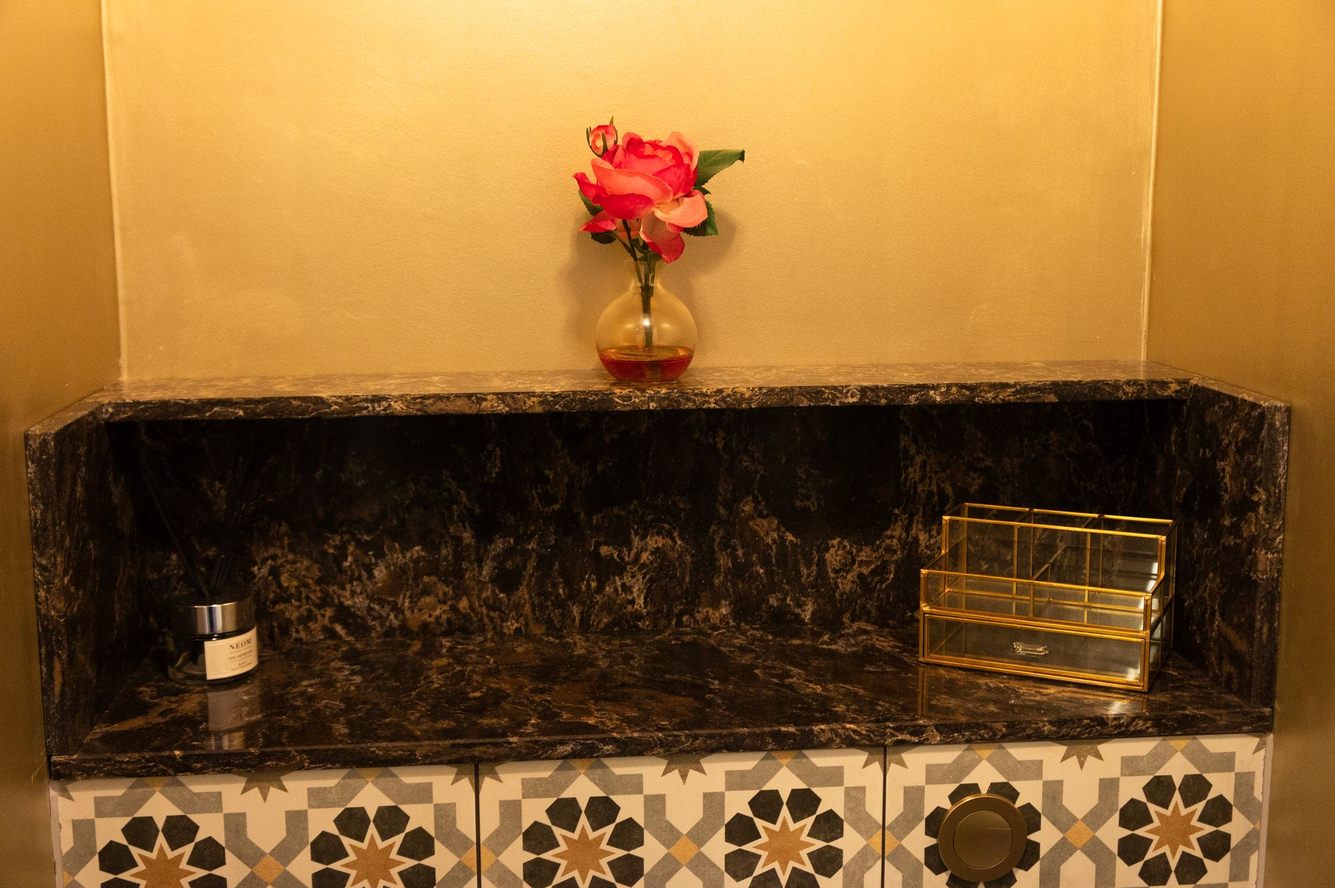
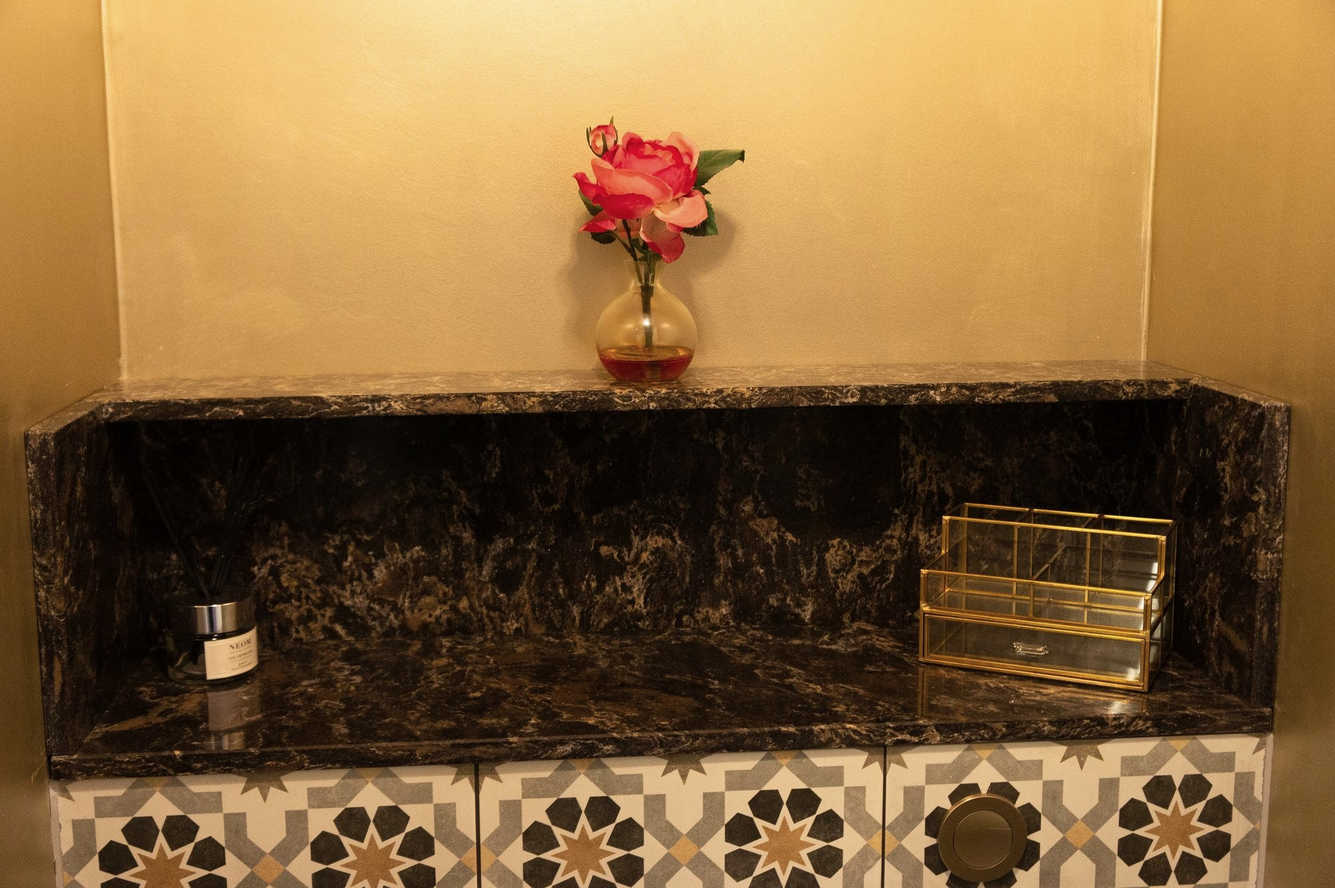
Magazine Mews: no house number or postcode, softer photo colours
- Address shows as "Magazine Mews, Shoeburyness" everywhere: page title,
  heading, link preview, Google listing data, header badge (now "M").
- New link-preview picture without the number or postcode.
- Every photo's colour saturation reduced by 20% to match the house in person.

Claude-Session: https://claude.ai/code/session_01B8GAB7MBQBbgSW8Co3RPre

Changed region(s): [[0.434, 0.1232, 0.527, 0.2772], [0.744, 0.6469, 0.868, 0.7701], [0.806, 0.5853, 0.868, 0.6161]]

diff --git a/magazine-mews/index.html b/magazine-mews/index.html
@@ -4,14 +4,14 @@
 <head>
 <meta charset="utf-8">
 <meta name="viewport" content="width=device-width, initial-scale=1">
-<title>1 Magazine Mews, Shoebury Garrison, Shoeburyness SS3 9QB — For sale</title>
-<meta name="description" content="1 Magazine Mews is for sale privately. A home in the historic Shoebury Garrison conservation area in Shoeburyness, Essex, just yards from East Beach. See photos and details, or arrange a viewing.">
+<title>Magazine Mews, Shoeburyness — For sale</title>
+<meta name="description" content="Magazine Mews is for sale privately. A home in the historic Shoebury Garrison conservation area in Shoeburyness, Essex, just yards from East Beach. See photos and details, or arrange a viewing.">
 <meta name="theme-color" content="#4A1F3D">
 
 <!-- Social sharing (WhatsApp, Facebook, iMessage…). Facebook needs full URLs,
      so these come from site.url in content.js. -->
 <meta property="og:type" content="website">
-<meta property="og:title" content="1 Magazine Mews, Shoebury Garrison — for sale">
+<meta property="og:title" content="Magazine Mews — for sale">
 <meta property="og:description" content="A home in the historic Shoebury Garrison conservation area in Shoeburyness, Essex, just yards from East Beach. For sale privately. Viewings by appointment.">
 <meta property="og:image" content="https://1magazinemews.vercel.app/og-image.jpg">
 <meta property="og:image:width" content="1200">
@@ -30,22 +30,16 @@
   "@context": "https://schema.org",
   "@type": "RealEstateListing",
   "url": "https://1magazinemews.vercel.app/",
-  "name": "1 Magazine Mews, Shoebury Garrison, Shoeburyness, Essex, SS3 9QB for sale",
+  "name": "Magazine Mews, Shoeburyness for sale",
   "description": "A home in the historic Shoebury Garrison conservation area in Shoeburyness, Essex, just yards from East Beach.",
   "about": {
     "@type": "Accommodation",
-    "name": "1 Magazine Mews",
+    "name": "Magazine Mews",
     "address": {
       "@type": "PostalAddress",
-      "streetAddress": "1 Magazine Mews",
+      "streetAddress": "Magazine Mews",
       "addressLocality": "Shoeburyness",
-      "addressRegion": "Essex",
-      "postalCode": "SS3 9QB",
       "addressCountry": "GB"
-    },
-    "containedInPlace": {
-      "@type": "Place",
-      "name": "Shoebury Garrison, Shoeburyness"
     }
   }
 }
@@ -92,9 +86,9 @@
 
 <header class="site-header" id="top">
   <div class="wrap header-inner">
-    <a class="brand" href="#top" aria-label="1 Magazine Mews, back to top">
-      <span class="brand-mark" aria-hidden="true">1</span>
-      <span class="brand-text">Magazine Mews<small>Shoebury Garrison</small></span>
+    <a class="brand" href="#top" aria-label="Magazine Mews, back to top">
+      <span class="brand-mark" aria-hidden="true">M</span>
+      <span class="brand-text">Magazine Mews<small>Shoeburyness</small></span>
     </a>
 
     <button class="nav-toggle" aria-expanded="false" aria-controls="site-nav" aria-label="Menu">
@@ -119,8 +113,8 @@
     <div class="wrap hero-inner">
       <div class="hero-copy">
         <p class="eyebrow eyebrow-light" id="hero-eyebrow">For sale privately</p>
-        <h1 id="hero-title">1 Magazine Mews</h1>
-        <p class="hero-address" id="hero-address">Shoebury Garrison · Shoeburyness, Essex · SS3 9QB</p>
+        <h1 id="hero-title">Magazine Mews</h1>
+        <p class="hero-address" id="hero-address">Shoeburyness</p>
         <p class="hero-lede" id="hero-lede"></p>
 
         <div class="hero-price" id="hero-price" hidden>
@@ -154,7 +148,7 @@
               <text class="crest-ring-text" fill="currentColor">
                 <textPath href="#crest-ring" startOffset="0">SHOEBURY GARRISON · EST. 1849 · SHOEBURYNESS · ESSEX ·</textPath>
               </text>
-              <text class="crest-numeral" x="160" y="192" text-anchor="middle" fill="currentColor">1</text>
+              <text class="crest-numeral" x="160" y="192" text-anchor="middle" fill="currentColor">M</text>
               <text class="crest-name" x="160" y="222" text-anchor="middle" fill="currentColor">MAGAZINE MEWS</text>
               <path d="M130 96 h60" stroke="currentColor" stroke-width="1.5"/>
               <path d="M160 89 l4.5 7 -4.5 7 -4.5 -7z" fill="currentColor"/>
@@ -177,7 +171,7 @@
     <div class="wrap home-inner">
       <div class="home-copy">
         <p class="eyebrow">The home</p>
-        <h2>About 1 Magazine Mews</h2>
+        <h2>About Magazine Mews</h2>
         <div class="prose" id="home-description"></div>
       </div>
       <aside class="home-aside" id="home-aside" hidden>
@@ -224,7 +218,7 @@
         <h2>Floorplan</h2>
       </header>
       <figure class="floorplan" id="floorplan-figure" hidden>
-        <img id="floorplan-img" alt="Floorplan of 1 Magazine Mews" loading="lazy">
+        <img id="floorplan-img" alt="Floorplan of Magazine Mews" loading="lazy">
       </figure>
       <p class="floorplan-download" id="floorplan-download" hidden>
         <a class="btn btn-outline" id="floorplan-pdf" href="#" download>Download floorplan (PDF)</a>
@@ -256,10 +250,10 @@
     <div class="wrap">
       <div class="map" id="map">
         <div class="map-placeholder" id="map-placeholder">
-          <p class="map-address">Magazine Mews, Shoeburyness SS3 9QB</p>
+          <p class="map-address">Magazine Mews, Shoeburyness</p>
           <div class="map-actions">
             <button class="btn btn-brass" type="button" id="map-load">Show map</button>
-            <a class="btn btn-outline-light" id="map-link" href="https://www.google.com/maps/search/?api=1&amp;query=1+Magazine+Mews%2C+Shoeburyness%2C+SS3+9QB" target="_blank" rel="noopener">Open in Google Maps</a>
+            <a class="btn btn-outline-light" id="map-link" href="https://www.google.com/maps/search/?api=1&amp;query=Magazine+Mews%2C+Shoeburyness" target="_blank" rel="noopener">Open in Google Maps</a>
           </div>
           <p class="map-note">The map loads from Google when you press the button.</p>
         </div>
@@ -303,8 +297,8 @@
       </div>
 
       <form class="enquire-form" id="enquiry-form" novalidate>
-        <input type="hidden" name="_subject" value="Enquiry: 1 Magazine Mews">
-        <input type="hidden" name="property" value="1 Magazine Mews">
+        <input type="hidden" name="_subject" value="Enquiry: Magazine Mews">
+        <input type="hidden" name="property" value="Magazine Mews">
         <!-- Spam trap: real people never see or fill this -->
         <div class="hp" aria-hidden="true">
           <label for="hp-field">Leave this empty</label>
@@ -366,10 +360,10 @@
   <div class="wrap footer-inner">
     <div>
       <a class="brand brand-footer" href="#top">
-        <span class="brand-mark" aria-hidden="true">1</span>
-        <span class="brand-text">Magazine Mews<small>Shoebury Garrison</small></span>
+        <span class="brand-mark" aria-hidden="true">M</span>
+        <span class="brand-text">Magazine Mews<small>Shoeburyness</small></span>
       </a>
-      <p class="footer-address">1 Magazine Mews, Shoebury Garrison,<br>Shoeburyness, Essex SS3 9QB</p>
+      <p class="footer-address">Magazine Mews,<br>Shoeburyness</p>
     </div>
     <nav class="footer-nav" aria-label="Footer">
       <a href="#home" data-section="home">The home</a>

diff --git a/magazine-mews/content.js b/magazine-mews/content.js
@@ -1,5 +1,5 @@
 /* ==========================================================
-   1 Magazine Mews — CONTENT FILE
+   Magazine Mews — CONTENT FILE
    ----------------------------------------------------------
    This is the only file you need to edit to change what the
    website says. You never need to touch index.html, site.js
@@ -35,10 +35,10 @@ window.HOUSE = {
   /* ── The basics ─────────────────────────────────────────── */
 
   address: {
-    line1: "1 Magazine Mews",
-    area: "Shoebury Garrison",
-    town: "Shoeburyness, Essex",
-    postcode: "SS3 9QB",
+    line1: "Magazine Mews",
+    area: "",
+    town: "Shoeburyness",
+    postcode: "",
   },
 
   // The live web address. Used for Google, the sitemap and link previews.
@@ -49,7 +49,7 @@ window.HOUSE = {
 
   // How the house appears in Google results and link previews.
   seo: {
-    title: "1 Magazine Mews, Shoebury Garrison, Shoeburyness SS3 9QB — For sale",
+    title: "Magazine Mews, Shoeburyness — For sale",
     summary: "A home in the historic Shoebury Garrison conservation area in Shoeburyness, Essex, just yards from East Beach.",
   },
 
@@ -79,6 +79,7 @@ window.HOUSE = {
   // The round crest shown until there's a hero photo. The number and
   // street name come from the address.
   crest: {
+    numeral: "M",   // the badge in the header and the browser tab (was the house number)
     ring: "SHOEBURY GARRISON · EST. 1849 · SHOEBURYNESS · ESSEX ·",
   },
 
